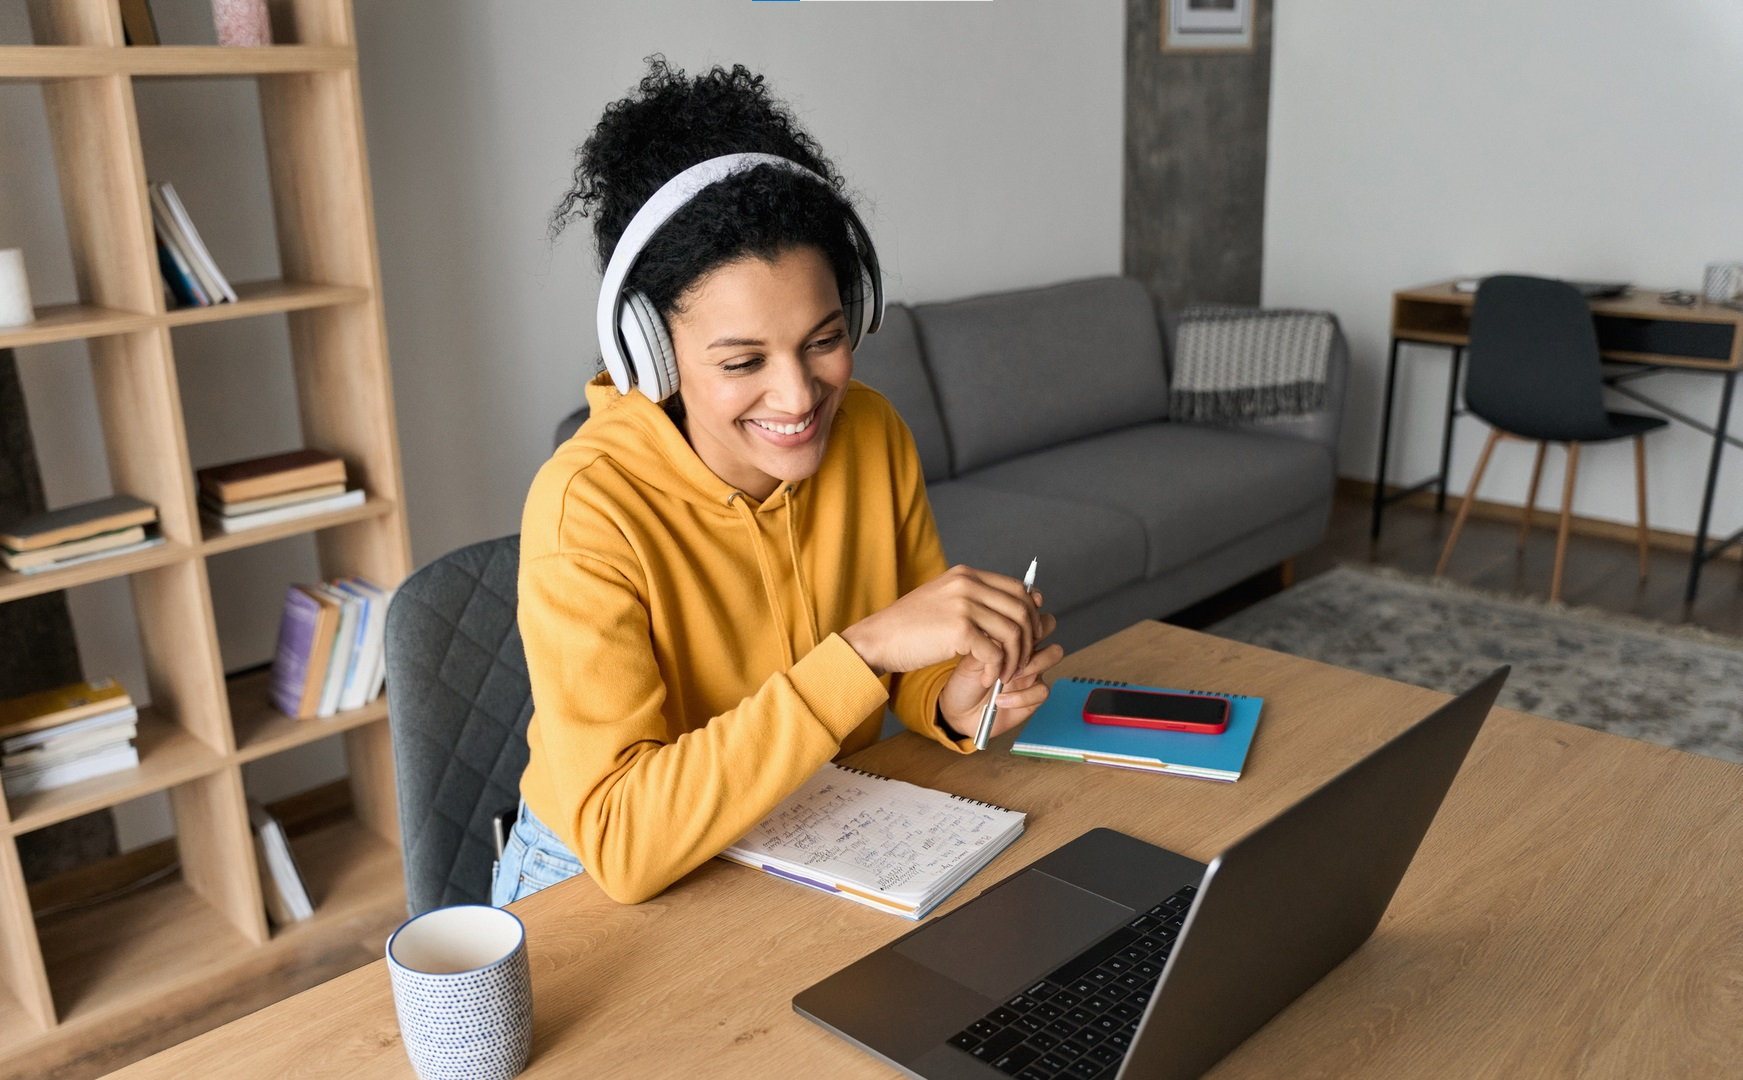
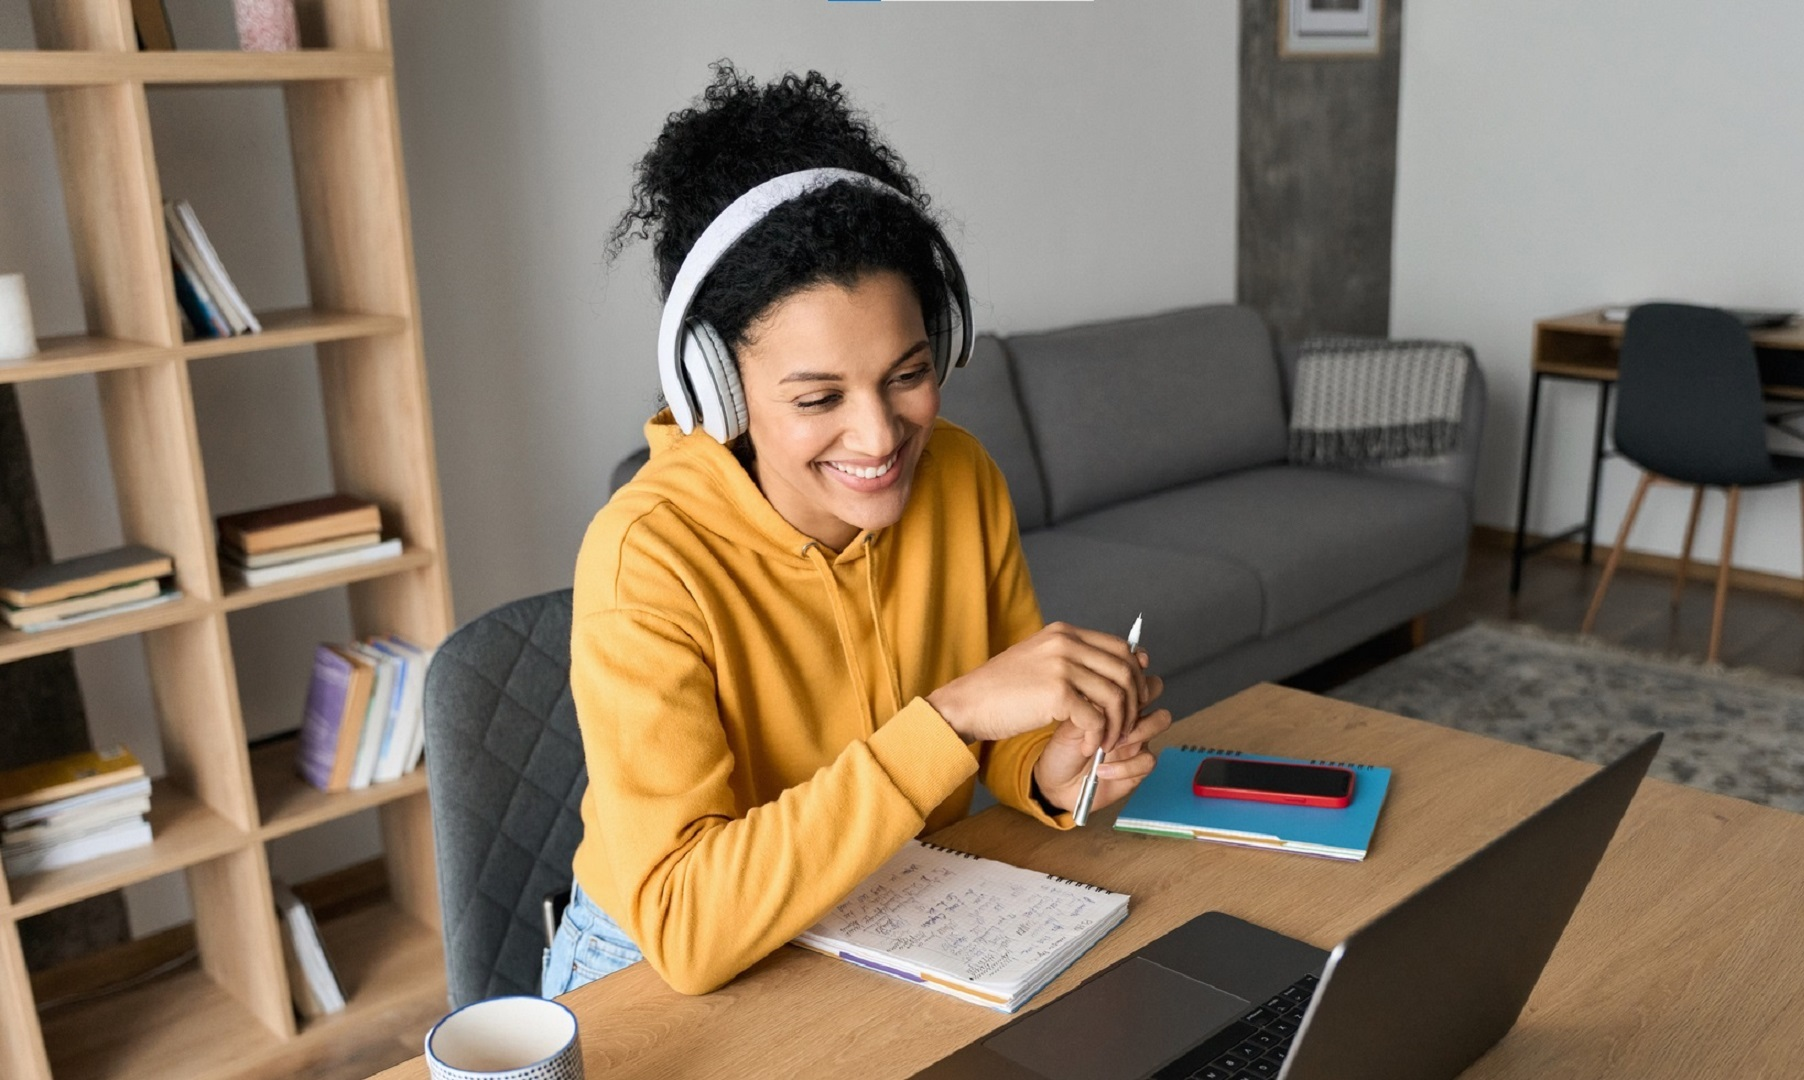
Arreglo de las dimensiones de la imagen 4 en COURSES

diff --git a/pages/courses.html b/pages/courses.html
@@ -85,7 +85,7 @@
                     <!-- Level 3 -->
                     <div class="card-body col-sm-12 col-md-12 col-lg-5 m-3">
                         <h2 class="level text-center">Level 3</h2>
-                        <img src="../images/level3.jpg" alt="level3" class="img-fluid course__images">
+                        <img src="../images/level3.jpg" alt="level3" class="img-fluid">
                         <h2 class="text-start mt-3">Learning outcomes</h2>
                         <p class="mt-3 text-start">Lorem, ipsum dolor sit amet consectetur adipisicing elit. Nihil ducimus cumque totam officiis debitis ipsam dolores ut aliquid molestiae nisi, eum repellendus explicabo ea expedita! Ipsa fugiat totam omnis reprehenderit, laborum libero itaque ea ratione, mollitia repellat odio delectus quisquam ipsam assumenda eum minima. Nobis voluptates iste pariatur maxime modi laudantium ab error exp</p>
                     </div>
@@ -93,7 +93,7 @@
                     <!-- Level 4 -->
                     <div class="card-body col-sm-12 col-md-12 col-lg-5 m-3">
                         <h2 class="level text-center">Level 4</h2>
-                        <img src="../images/level4.jpg" alt="level4" class="img-fluid course__images">
+                        <img src="../images/level4.jpg" alt="level4" class="img-fluid">
                         <h2 class="text-start mt-3">Learning outcomes</h2>
                         <p class="mt-3 text-start">Lorem, ipsum dolor sit amet consectetur adipisicing elit. Nihil ducimus cumque totam officiis debitis ipsam dolores ut aliquid molestiae nisi, eum repellendus explicabo ea expedita! Ipsa fugiat totam omnis reprehenderit, laborum libero itaque ea ratione, mollitia repellat odio delectus quisquam ipsam assumenda eum minima. Nobis voluptates iste pariatur maxime modi laudantium ab error exp</p>
                     </div>
@@ -101,7 +101,7 @@
                     <!-- level 5 -->
                     <div class="card-body col-sm-12 col-md-12 col-lg-5 m-3">
                         <h2 class="level text-center">Level 5</h2>
-                        <img src="../images/level5.jpg" alt="level5" class="img-fluid course__images">
+                        <img src="../images/level5.jpg" alt="level5" class="img-fluid">
                         <h2 class="text-start mt-3">Learning outcomes</h2>
                         <p class="mt-3 text-start">Lorem, ipsum dolor sit amet consectetur adipisicing elit. Nihil ducimus cumque totam officiis debitis ipsam dolores ut aliquid molestiae nisi, eum repellendus explicabo ea expedita! Ipsa fugiat totam omnis reprehenderit, laborum libero itaque ea ratione, mollitia repellat odio delectus quisquam ipsam assumenda eum minima. Nobis voluptates iste pariatur maxime modi laudantium ab error exp</p>
                     </div>
@@ -109,7 +109,7 @@
                     <!-- Level 6 -->
                     <div class="card-body col-sm-12 col-md-12 col-lg-5 m-3">
                         <h2 class="level text-center">Level 6</h2>
-                        <img src="../images/level6.jpg" alt="level6" class="img-fluid course__images">
+                        <img src="../images/level6.jpg" alt="level6" class="img-fluid">
                         <h2 class="text-start mt-3">Learning outcomes</h2>
                         <p class="mt-3 text-start">Lorem, ipsum dolor sit amet consectetur adipisicing elit. Nihil ducimus cumque totam officiis debitis ipsam dolores ut aliquid molestiae nisi, eum repellendus explicabo ea expedita! Ipsa fugiat totam omnis reprehenderit, laborum libero itaque ea ratione, mollitia repellat odio delectus quisquam ipsam assumenda eum minima. Nobis voluptates iste pariatur maxime modi laudantium ab error exp</p>
                     </div>

diff --git a/pages/about.html b/pages/about.html
@@ -65,7 +65,7 @@
         <!-- Section -->
         <section class="about">
             <div class="about-body">
-                <img src="../images/about.jpg" alt="" class="mb-3">
+                <img src="../images/about.jpg" alt="" class="mb-3 img-fluid">
                 <p class="mt-2 text-start">Lorem ipsum dolor sit amet consectetur adipisicing elit. Iure perspiciatis, laboriosam atque molestias illum magnam ipsa suscipit perferendis saepe voluptates modi sequi aut aliquam voluptatem quibusdam quo mollitia maxime non? Quod quas vel voluptas eveniet eum perferendis. Illo reiciendis distinctio itaque repellendus beatae corporis rerum eaque modi qui voluptates atque veniam fugiat voluptas quidem assumenda, fuga ad tenetur nisi quis iure? Soluta commodi illo impedit dolorum, deserunt debitis odit cupiditate, dolorem dicta facilis nihil maxime pariatur repellendus iusto maiores quaerat!</p>
                 <p class="mt-2 text-start">Lorem ipsum dolor sit amet consectetur adipisicing elit. Iure perspiciatis, laboriosam atque molestias illum magnam ipsa suscipit perferendis saepe voluptates modi sequi aut aliquam voluptatem quibusdam quo mollitia maxime non? Quod quas vel voluptas eveniet eum perferendis. Illo reiciendis distinctio itaque repellendus beatae corporis rerum eaque modi qui voluptates atque veniam fugiat voluptas quidem assumenda, fuga ad tenetur nisi quis iure? Soluta commodi illo impedit dolorum, deserunt debitis odit cupiditate, dolorem dicta facilis nihil maxime pariatur repellendus iusto maiores quaerat!</p>
                 <p class="mt-2 text-start">Lorem ipsum dolor sit amet consectetur adipisicing elit. Iure perspiciatis, laboriosam atque molestias illum magnam ipsa suscipit perferendis saepe voluptates modi sequi aut aliquam voluptatem quibusdam quo mollitia maxime non? Quod quas vel voluptas eveniet eum perferendis. Illo reiciendis distinctio itaque repellendus beatae corporis rerum eaque modi qui voluptates atque veniam fugiat voluptas quidem assumenda, fuga ad tenetur nisi quis iure? Soluta commodi illo impedit dolorum, deserunt debitis odit cupiditate, dolorem dicta facilis nihil maxime pariatur repellendus iusto maiores quaerat!</p>

diff --git a/css/styles.css b/css/styles.css
@@ -429,11 +429,11 @@ footer{
 
 /* COURSES PAGE */
 
-.course__images{
+/* .course__images{
     width: 100%;
-    height: 500px;
+    max-height: 100%;
     object-fit: cover;
-}
+} */
 
 
 
